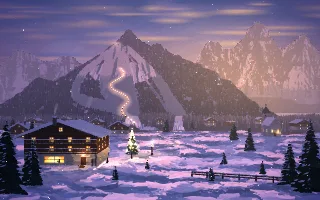
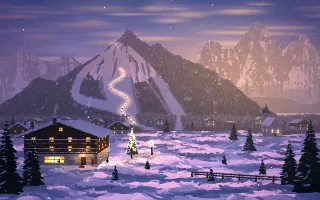
Torchlight: runs that come out of the woods in the woods' own light; cut runs that read
The lanes at the mountain's foot were filled as near ground with no air,
so they glared as flat white rectangles. They are now painted at the woods'
depth, groomed down the middle and shaded along ragged edges that open
toward us, the torch run's bending into the run-out. Below the tree line a
run is lying snow with shaded edges, so the red and the blue read as cuts.

diff --git a/web/wallpapers/torchlight/torch-art.js b/web/wallpapers/torchlight/torch-art.js
@@ -172,7 +172,7 @@ const TorchArt = (() => {
                 const q = j * gw + i, hf = clamp((foot - y) / FH), rib = ribs[q], a = spokes[q], steep = Math.abs(g);
                 c.foot = hazeOf(y); c.ang = Math.atan2(y - top + 0.3 * FH, x - S);
                 // The runs: groomed snow, brushed along the way they run.
-                if (pd[q] < 1) { c.col = P.vary(GROOMED, 0.008); c.cls = facing(g, 0.5); c.m = hf > 0.5 && g > -0.5 ? MAT.FROST : MAT.SNOW; c.size = 3.2; c.ang = pang[q]; return; }
+                if (pd[q] < 1) { const cut = hf < 0.5, edge = pd[q] > 0.84; c.col = P.vary(cut && edge ? SNOW_SHADE : GROOMED, 0.008); c.cls = cut && !edge ? lying(g, 0.6) : facing(g, 0.5); c.m = hf > 0.5 && g > -0.5 ? MAT.FROST : MAT.SNOW; c.size = 3.2; c.ang = pang[q]; return; }
                 const open = cut[q] || hutAt(x, y) || inBowl(x, y);
                 // The tree line: lower in the bowl under the summit, higher up the ribs; glades, and the avalanche paths down the gullies.
                 const tl = 0.6 + 0.08 * fbm(x / (0.25 * FH), 0.5, 7, 2) + 0.06 * (rib - 0.5) - 0.16 * Math.exp(-(((x - Y.cx) / (0.3 * M.half)) ** 2));
@@ -294,16 +294,20 @@ const TorchArt = (() => {
             // The dark under the trees, broken where something stands open.
             P.fill(P.vary([0.17, 0.24, 0.29], 0.05), g => poly(g, [...edge, ...edge.slice().reverse().map(([x, y]) => [x, y + 16 * u + r * 0.4])]));
             // Where a run comes out of the trees: a lane cut through the rank, as wide as the run, the way the run goes.
+            // At the woods' own depth and in their air, so it takes the same light as the snow about it; groomed down
+            // the middle, in the trees' shade along ragged edges, opening toward us.
             for (const c of holes) {
-                const ya = y0 - r * 1.2, yb = y0 + 16 * u + r * 0.4, w = c.rx * (0.75 + 0.35 * t), edge = [];
-                for (let k = 0; k <= 4; k++) { const y = lerp(ya, yb, k / 4); edge.push([c.xAt(y), y, w * (1 + 0.08 * k) + P.rr(-0.3, 0.3) * r]); }
-                P.set({ cls: CLS.GROUND, m: MAT.SNOW, size: 4, ang: Math.PI / 2, foot: cam.H });
-                P.fill(P.vary([0.9, 0.92, 0.99], 0.02), g => poly(g, [...edge.map(([x, y, e]) => [x - e, y]), ...edge.reverse().map(([x, y, e]) => [x + e, y])]));
+                const ya = y0 - r * 1.2, yb = y0 + 16 * u + r * 0.4, w = c.rx * (0.5 + 0.6 * t), L = [], R = [];
+                for (let k = 0; k <= 6; k++) { const y = lerp(ya, yb, k / 6), x = c.xAt(y), e = w * (0.9 + 0.12 * k / 6); L.push([x - e - P.rr(0, 0.7) * r, y]); R.push([x + e + P.rr(0, 0.7) * r, y]); }
+                P.set({ cls: CLS.UP, m: MAT.SNOW, size: 3, ang: Math.PI / 2, foot: farFoot(cam, z), haze: 0 });
+                P.fill(P.vary([0.8, 0.83, 0.94], 0.02), g => poly(g, [...L, ...R.slice().reverse()]));
+                P.set({ cls: CLS.TOP });
+                P.fill(P.vary([0.93, 0.94, 1], 0.015), g => poly(g, [...L.map(([x, y], k) => [lerp(x, R[k][0], 0.22), y]), ...R.map(([x, y], k) => [lerp(L[k][0], x, 0.78), y]).reverse()]));
                 set();
             }
             for (let x = -10 * u + P.rr(0, r); x < W + 10 * u; x += r * P.rr(0.5, 1.0)) {
                 const y = y0 + wave(x) + P.rr(-0.3, 0.5) * r, h = r * P.rr(1.8, 2.7), snowy = P.R() < 0.38;
-                if (holes.some(c => Math.abs(x - c.xAt(y)) < c.rx * (0.75 + 0.35 * t) + r * 0.2)) continue;
+                if (holes.some(c => Math.abs(x - c.xAt(y)) < c.rx * (0.5 + 0.6 * t) * 0.95)) continue;
                 P.fill(P.vary(snowy ? [0.44, 0.52, 0.62] : [0.15, 0.24, 0.27], 0.16), g => poly(g, [[x - r * 0.5, y + r], [x, y - h], [x + r * 0.5, y + r]]));
                 if (snowy) P.fill([0.86, 0.89, 0.98], g => poly(g, [[x - r * 0.2, y - h * 0.45], [x, y - h], [x + r * 0.2, y - h * 0.45]]));
             }

diff --git a/SPEC.md b/SPEC.md
@@ -896,7 +896,7 @@ and the commits.
 | harvest | `mist`, `beams` (medium) | Land is one baked layer per resize; trees, leaves, apples, geese and clouds are baked sprites; the world is washed once per frame with the hour's light; leaves, apples, smoke, sparks and flocks × density; squirrels × (0.5 + 0.5 density) |
 | christmas-village | `reflections`, `aurora` (medium) | The land is one baked painting per layout, washed into a second canvas only when the hour's colour has moved a step; lit windows and lamps are one layer repainted when a window goes on or off; every string bulb is on one of two layers faded against each other (the twinkle costs two blits); the cast is a few filled shapes apiece in colours toned for the hour, the trees among them sprites toned the same way; far snow is one path of squares, near flakes a sprite. 5.4% busy on Low, 7.0% on Medium, 15.1% on High at 4× throttle |
 | painted-village | `reflections`, `moving-lights`, `aurora` (medium) | The picture is brush strokes baked once per layout into plates (in slices of a third of a frame, shown as it goes); the hour is about a dozen canvas blends when its colour has moved, most at half size, and only a patch's rectangle when a window or lamp changes; a frame is one blit, the cast (a dozen dabs each, lit in JavaScript a few times a second, the lit picture put back over whoever is behind something), smoke sprites, a few bulbs and the snow as two paths. The picture's size is capped by tier (0.8, 1.4, 2.5 megapixels) and a change of render scale repaints nothing. 8.6% busy on Low, 17.3% on Medium, 33.3% on High at 4× throttle, the bake included (§10.41) |
-| torchlight | `moving-lights` (medium) | Painted Village's plates and bake (§10.41), on a mountain: the picture baked once per layout, the hour a dozen blends; a frame is one blit and the cast. Every torch's light is done at once: a pool sprite each, screened into one half-size canvas the size of the torches' bounding box, the painting there multiplied by it and added to the frame (three blits however many torches); far skiers are a dab and a flame sprite. The torches × (0.55 + 0.45 density); the fireworks' spark pool 1800 × density + 200, their flash one quarter-size blit. The massif's cells are worked out once per layout. 7.2% busy on Low, 22.1% on Medium, 29.5% on High at 4× throttle, the bake included (§10.42) |
+| torchlight | `moving-lights` (medium) | Painted Village's plates and bake (§10.41), on a mountain: the picture baked once per layout, the hour a dozen blends; a frame is one blit and the cast. Every torch's light is done at once: a pool sprite each, screened into one half-size canvas the size of the torches' bounding box, the painting there multiplied by it and added to the frame (three blits however many torches); far skiers are a dab and a flame sprite. The torches × (0.55 + 0.45 density); the fireworks' spark pool 1800 × density + 200, their flash one quarter-size blit. The massif's cells are worked out once per layout. 5.2% busy on Low, 21.9% on Medium, 28.6% on High at 4× throttle, the bake included (§10.42) |
 | snow-globe | `refraction`, `glints` (medium) | The room and the night outside are painted once per layout (an underpainting, then brushwork in slices of 6 ms a frame, shown as it goes), at a size capped by tier (0.8, 1.4, 2.5 megapixels); the scene inside is redrawn into its own canvas only while the snow is in the water or the turntable turns, and squeezed toward the rim by five annular redraws of it (`refraction`); flakes × density (700 at High), pooled, one sprite each, glitter twinkling only with `glints`. At rest it asks for 14 frames a second for the candle and the cat, 4 while the cat sleeps, and none with neither (idleUntil). 6.7% busy on Low, 11.0% on Medium, 18.8% on High at 4× throttle, the bake included (§10.43) |
 | reading-room | `shafts`, `dust` (medium) | Painted Village's method throughout: the hall baked once per layout into its plates (in slices), the hour a dozen blends when the light has moved; the sun's patches and shafts are two half-size greys redrawn only when the sun has moved a fifth of a degree (every half a minute or so, live), soft by scaling down and up, cut by the bands' masks, and laid into the light step and over the lit picture by the step itself; a frame is one blit, the cast (cats, readers, the librarian, the owl, planes, flying books), dust motes as squares, the weather outside clipped to the glass, a few bulbs. Capped at 0.8, 1.4 and 2.5 megapixels; 4, 5 and 6 passes. 16.2% busy on Low, 31.1% on Medium, 41.4% on High at 4× throttle, the bake included (§10.44) |
 | sky-island | — | The canvas is the picture's own pixels (2 CSS px each on a laptop or 1080p, 3 at 1440p, 4 at 4K, 1 on a phone), scaled up pixelated; the terrain (three tiers, their cliffs, the underside, the water) is one bake per season, the roots three sway frames, the sea of cloud two tileable strips and the ground one, rebaked with the light; everything that stands still (houses, trees, lamps, props, trimmings) is baked into one layer per street band, drawn in turn with whoever moves (trees are drawn live, swaying, only on High); the sky is a dithered bake redone as the light changes, the stars four baked twinkle frames; the night is one `source-atop` wash over the island's scratch, with the lit windows and lamps one glow layer redone only when the lit set changes; a passing island is one bake with a few live bits; 20 fps by default (a setting), 12 on Low, paced on a steady timeline through idleUntil; folk × (0.4 + 0.6 density), strays, wildlife, rain, snow, leaves, fireflies × density. Bench 2026-11-11 (v2): Low 21%, Medium 38%, High 46% |
@@ -6846,8 +6846,13 @@ invented, and everything is drawn in code.
   last of the forest low down, all blue with the air; cells hidden behind the
   mountain are not worked out. On the summit, a **cross**; under it the
   **summit station**, a long restaurant with a lit row of windows and a
-  terrace, the lift's top station beside it. Where the runs come out of the
-  woods at the foot, lanes are cut through the ranks of trees.
+  terrace, the lift's top station beside it. Below the tree line a run is
+  lying snow, brighter than the forest's flanks, in the trees' shade along
+  its edges, so the cuts read at a glance. Where the runs come out of the
+  woods at the foot, lanes are cut through the ranks of trees at the woods'
+  own depth and air (so they take the light the snow about them does),
+  groomed down the middle, shaded along ragged edges, opening toward us; the
+  torch run's follows the run-out across the meadow.
 - **The resort's runs** (`runs`, unit-tested): the **torch run**, a broad
   corridor down the middle (`corridor`: a centre that bows a little left, a
   half-width that opens in the bowl and narrows into the trees); a **red**
@@ -7010,7 +7015,7 @@ invented, and everything is drawn in code.
 - **Keys**: `D` send them down, `Y` spell the new year, `R` fireworks, `G`
   the snowcat, `W` a flurry, `P` paint it again, `M` what is happening.
 - **Cost** (`make bench`, a phone at 4× throttle, the bake included):
-  7.2% busy on Low, 22.1% on Medium, 29.5% on High. The bake is §10.41's:
+  5.2% busy on Low, 21.9% on Medium, 28.6% on High. The bake is §10.41's:
   about 460,000 strokes at 1280 × 800, shown as it paints. The massif's
   cells are worked out once per layout (some 150,000 at 1600 × 900, two
   noise lookups and a dozen more per cell), within the first slice.
